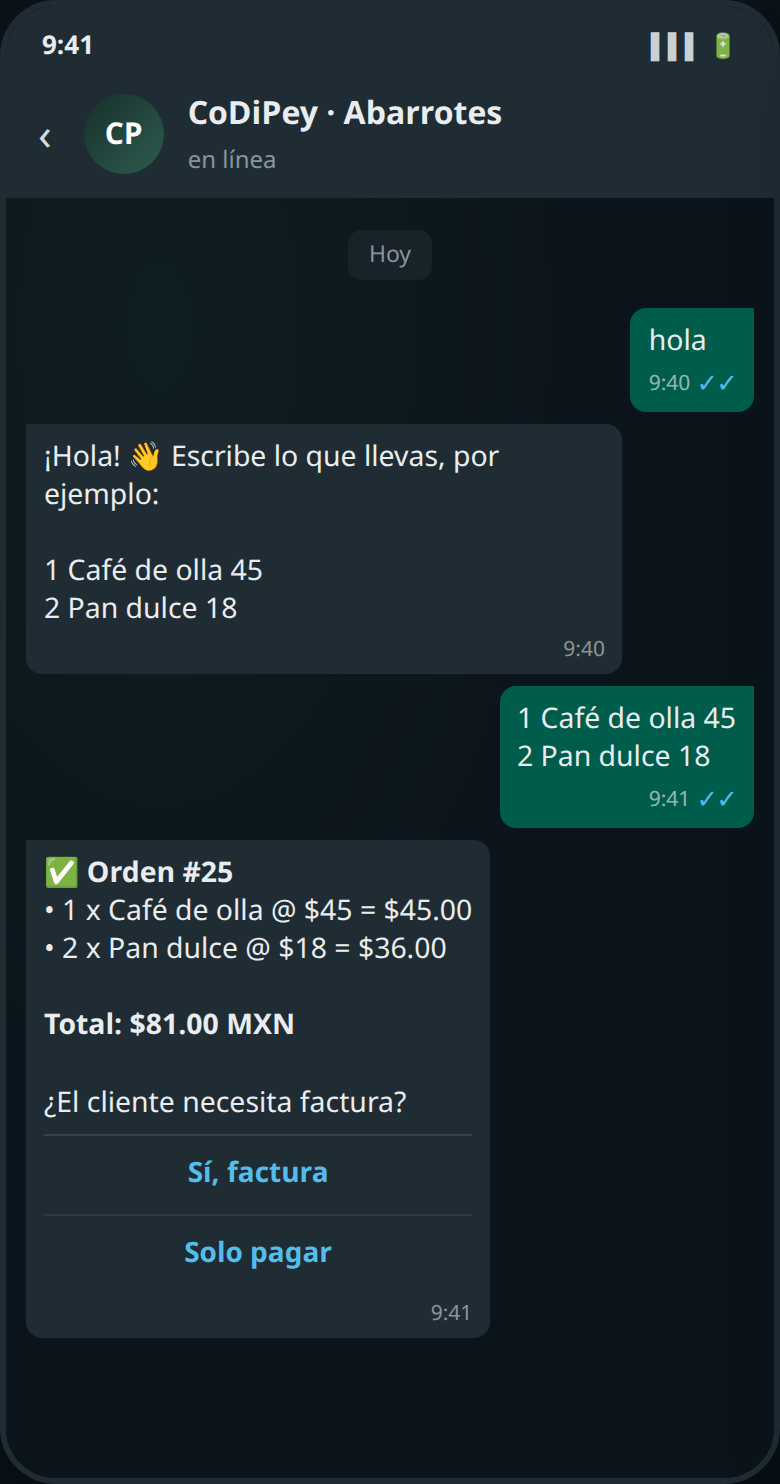
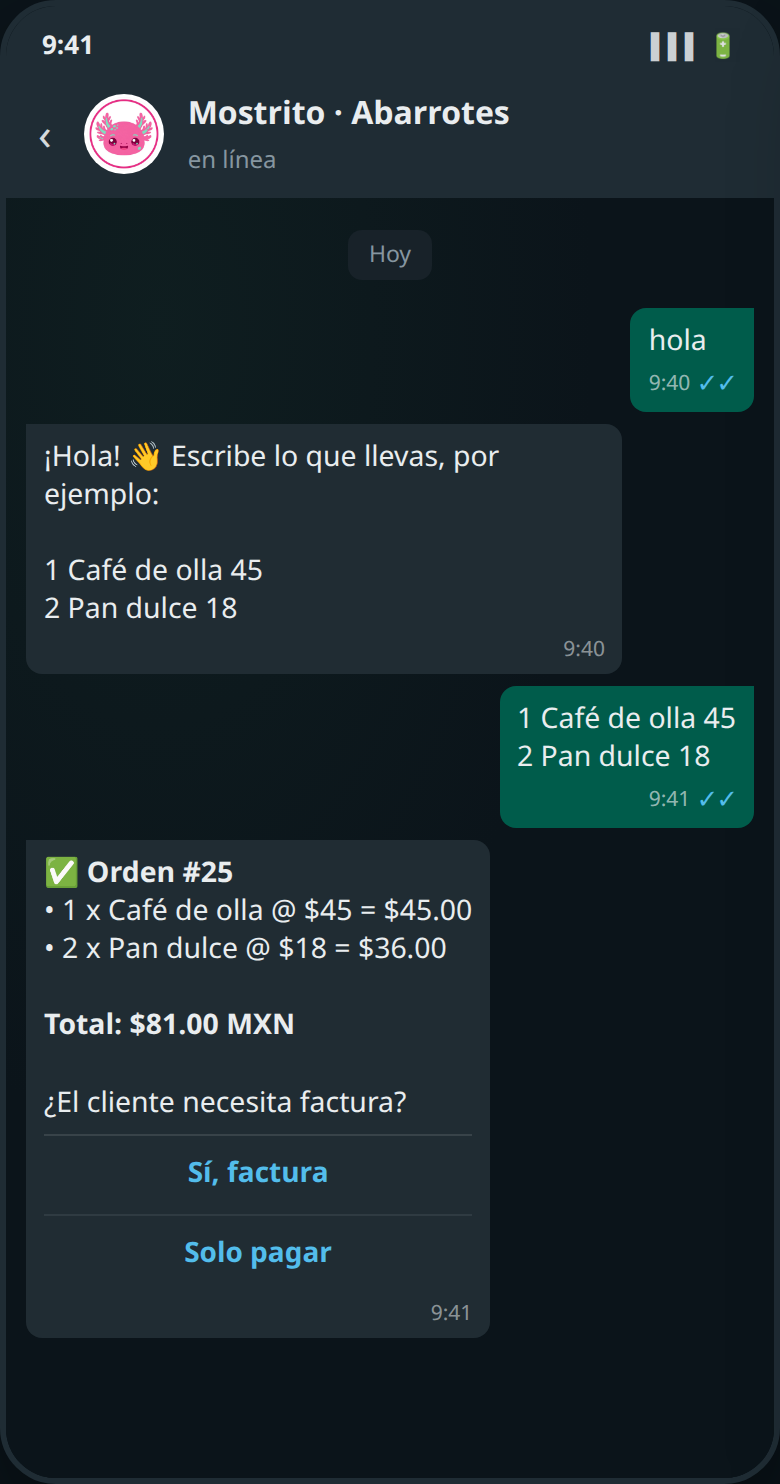
Integrate Mostrito mascot into the WhatsApp hero composition
Nest the ajolote with the phone mockup, put it in chat avatars, and refresh WA screenshots under the Mostrito name.

Changed region(s): [[0.2462, 0.062, 0.6462, 0.093], [0.0923, 0.062, 0.2154, 0.124]]

diff --git a/public/index.html b/public/index.html
@@ -140,19 +140,49 @@
       box-shadow: 0 4px 12px rgba(194, 24, 91, 0.25);
       border: 2px solid rgba(255,255,255,0.7);
     }
+    .hero-kicker {
+      display: inline-flex;
+      align-items: center;
+      gap: 0.55rem;
+      margin-bottom: 0.85rem;
+      font-weight: 800;
+      font-size: 1.05rem;
+      letter-spacing: -0.03em;
+      color: var(--ink);
+      animation: up .7s cubic-bezier(.22,1,.36,1) both;
+    }
+    .hero-kicker img {
+      width: 2.1rem;
+      height: 2.1rem;
+      border-radius: 999px;
+      object-fit: cover;
+      border: 2px solid rgba(255,255,255,0.8);
+      box-shadow: 0 6px 16px rgba(194, 24, 91, 0.22);
+    }
+    .hero-compose {
+      position: relative;
+      width: min(100%, 300px);
+      margin: 1.4rem auto 0;
+      animation: phoneFloat 6.5s ease-in-out infinite;
+    }
     .hero-mascot {
-      width: min(42%, 150px);
+      position: absolute;
+      z-index: 2;
+      width: 38%;
       aspect-ratio: 1;
-      margin: -0.5rem auto 0.85rem;
+      left: -14%;
+      top: -7%;
       border-radius: 999px;
       object-fit: cover;
       background: #fff;
-      border: 3px solid rgba(255,255,255,0.75);
-      box-shadow: 0 16px 36px rgba(0,0,0,0.28);
-      animation: phoneFloat 7s ease-in-out infinite;
+      border: 3px solid rgba(255,255,255,0.9);
+      box-shadow: 0 14px 30px rgba(0,0,0,0.28);
     }
-    @media (min-width: 960px) {
-      .hero-mascot { width: 160px; margin-bottom: 1rem; }
+    .hero-compose .hero-phone {
+      position: relative;
+      z-index: 1;
+      width: 100%;
+      animation: none;
     }
     .top-nav {
       display: none;
@@ -271,7 +301,6 @@
       box-shadow: 0 32px 70px rgba(0, 0, 0, 0.4);
       background: #0b141a;
       border: 1px solid rgba(255,255,255,0.12);
-      animation: phoneFloat 6.5s ease-in-out infinite;
     }
     .hero-caption {
       margin-top: 0.85rem;
@@ -613,6 +642,7 @@
 
   <header class="hero">
     <div class="hero-copy">
+      <p class="hero-kicker"><img src="/mostrito-icon.jpg" alt="" width="34" height="34" /><span>Mostrito</span></p>
       <h1 class="display">Cobra por WhatsApp. Quédate con <em>toda la venta</em>.</h1>
       <p class="hero-sub">
         El cliente escribe, toca un botón y paga con el QR de su banco.
@@ -629,9 +659,11 @@
       </ul>
     </div>
     <div class="hero-stage">
-      <img class="hero-mascot" src="/mostrito-mascot.jpg" alt="Mostrito, el ajolote del cobro" width="160" height="160" />
-      <img class="hero-phone" src="/wa-pedido.png" alt="WhatsApp: pedido Mostrito" width="390" height="780" fetchpriority="high" />
-      <p class="hero-caption">Así se ve el pedido en el chat del cliente.</p>
+      <div class="hero-compose">
+        <img class="hero-mascot" src="/mostrito-mascot.jpg" alt="Mostrito, el ajolote del cobro" width="120" height="120" />
+        <img class="hero-phone" src="/wa-pedido.png" alt="WhatsApp: pedido Mostrito" width="390" height="780" fetchpriority="high" />
+      </div>
+      <p class="hero-caption">Mostrito en el chat: pedido, QR y factura.</p>
     </div>
   </header>
 
@@ -755,7 +787,6 @@
   </section>
 
   <section class="close">
-    <img src="/mostrito-mascot.jpg" alt="" width="96" height="96" style="width:96px;height:96px;margin:0 auto 1.1rem;border-radius:999px;object-fit:cover;border:3px solid rgba(255,255,255,0.35);box-shadow:0 12px 30px rgba(0,0,0,0.25)" />
     <h2>Dos formas de demostrar.</h2>
     <p>WhatsApp real con tu número, o simulación en el panel en dos toques.</p>
     <div class="close-actions">

diff --git a/scripts/wa-shots.html b/scripts/wa-shots.html
@@ -45,9 +45,13 @@
     .back { font-size: 22px; opacity: 0.9; padding: 0 4px; }
     .avatar {
       width: 40px; height: 40px; border-radius: 50%;
-      background: linear-gradient(135deg, #16302B, #2F5C4F);
-      display: grid; place-items: center;
-      font-weight: 700; font-size: 15px; color: #fff;
+      overflow: hidden;
+      background: #fff;
+      flex: 0 0 auto;
+      border: 1.5px solid rgba(255,255,255,0.25);
+    }
+    .avatar img {
+      width: 100%; height: 100%; object-fit: cover; display: block;
     }
     .who strong { display: block; font-size: 16px; font-weight: 600; }
     .who span { font-size: 12px; color: #8696a0; }
@@ -149,7 +153,7 @@
       <div class="status"><span>9:41</span><span class="icons">▌▌▌ 🔋</span></div>
       <div class="header">
         <span class="back">‹</span>
-        <div class="avatar">CP</div>
+        <div class="avatar"><img src="../public/mostrito-icon.jpg" alt="" /></div>
         <div class="who"><strong>Mostrito · Abarrotes</strong><span>en línea</span></div>
       </div>
       <div class="chat">
@@ -180,7 +184,7 @@
       <div class="status"><span>9:42</span><span class="icons">▌▌▌ 🔋</span></div>
       <div class="header">
         <span class="back">‹</span>
-        <div class="avatar">CP</div>
+        <div class="avatar"><img src="../public/mostrito-icon.jpg" alt="" /></div>
         <div class="who"><strong>Mostrito · Abarrotes</strong><span>en línea</span></div>
       </div>
       <div class="chat">
@@ -238,7 +242,7 @@
       <div class="status"><span>9:43</span><span class="icons">▌▌▌ 🔋</span></div>
       <div class="header">
         <span class="back">‹</span>
-        <div class="avatar">CP</div>
+        <div class="avatar"><img src="../public/mostrito-icon.jpg" alt="" /></div>
         <div class="who"><strong>Mostrito · Abarrotes</strong><span>en línea</span></div>
       </div>
       <div class="chat">
@@ -271,7 +275,7 @@
       <div class="status"><span>9:45</span><span class="icons">▌▌▌ 🔋</span></div>
       <div class="header">
         <span class="back">‹</span>
-        <div class="avatar">CP</div>
+        <div class="avatar"><img src="../public/mostrito-icon.jpg" alt="" /></div>
         <div class="who"><strong>Mostrito · Abarrotes</strong><span>en línea</span></div>
       </div>
       <div class="chat">
